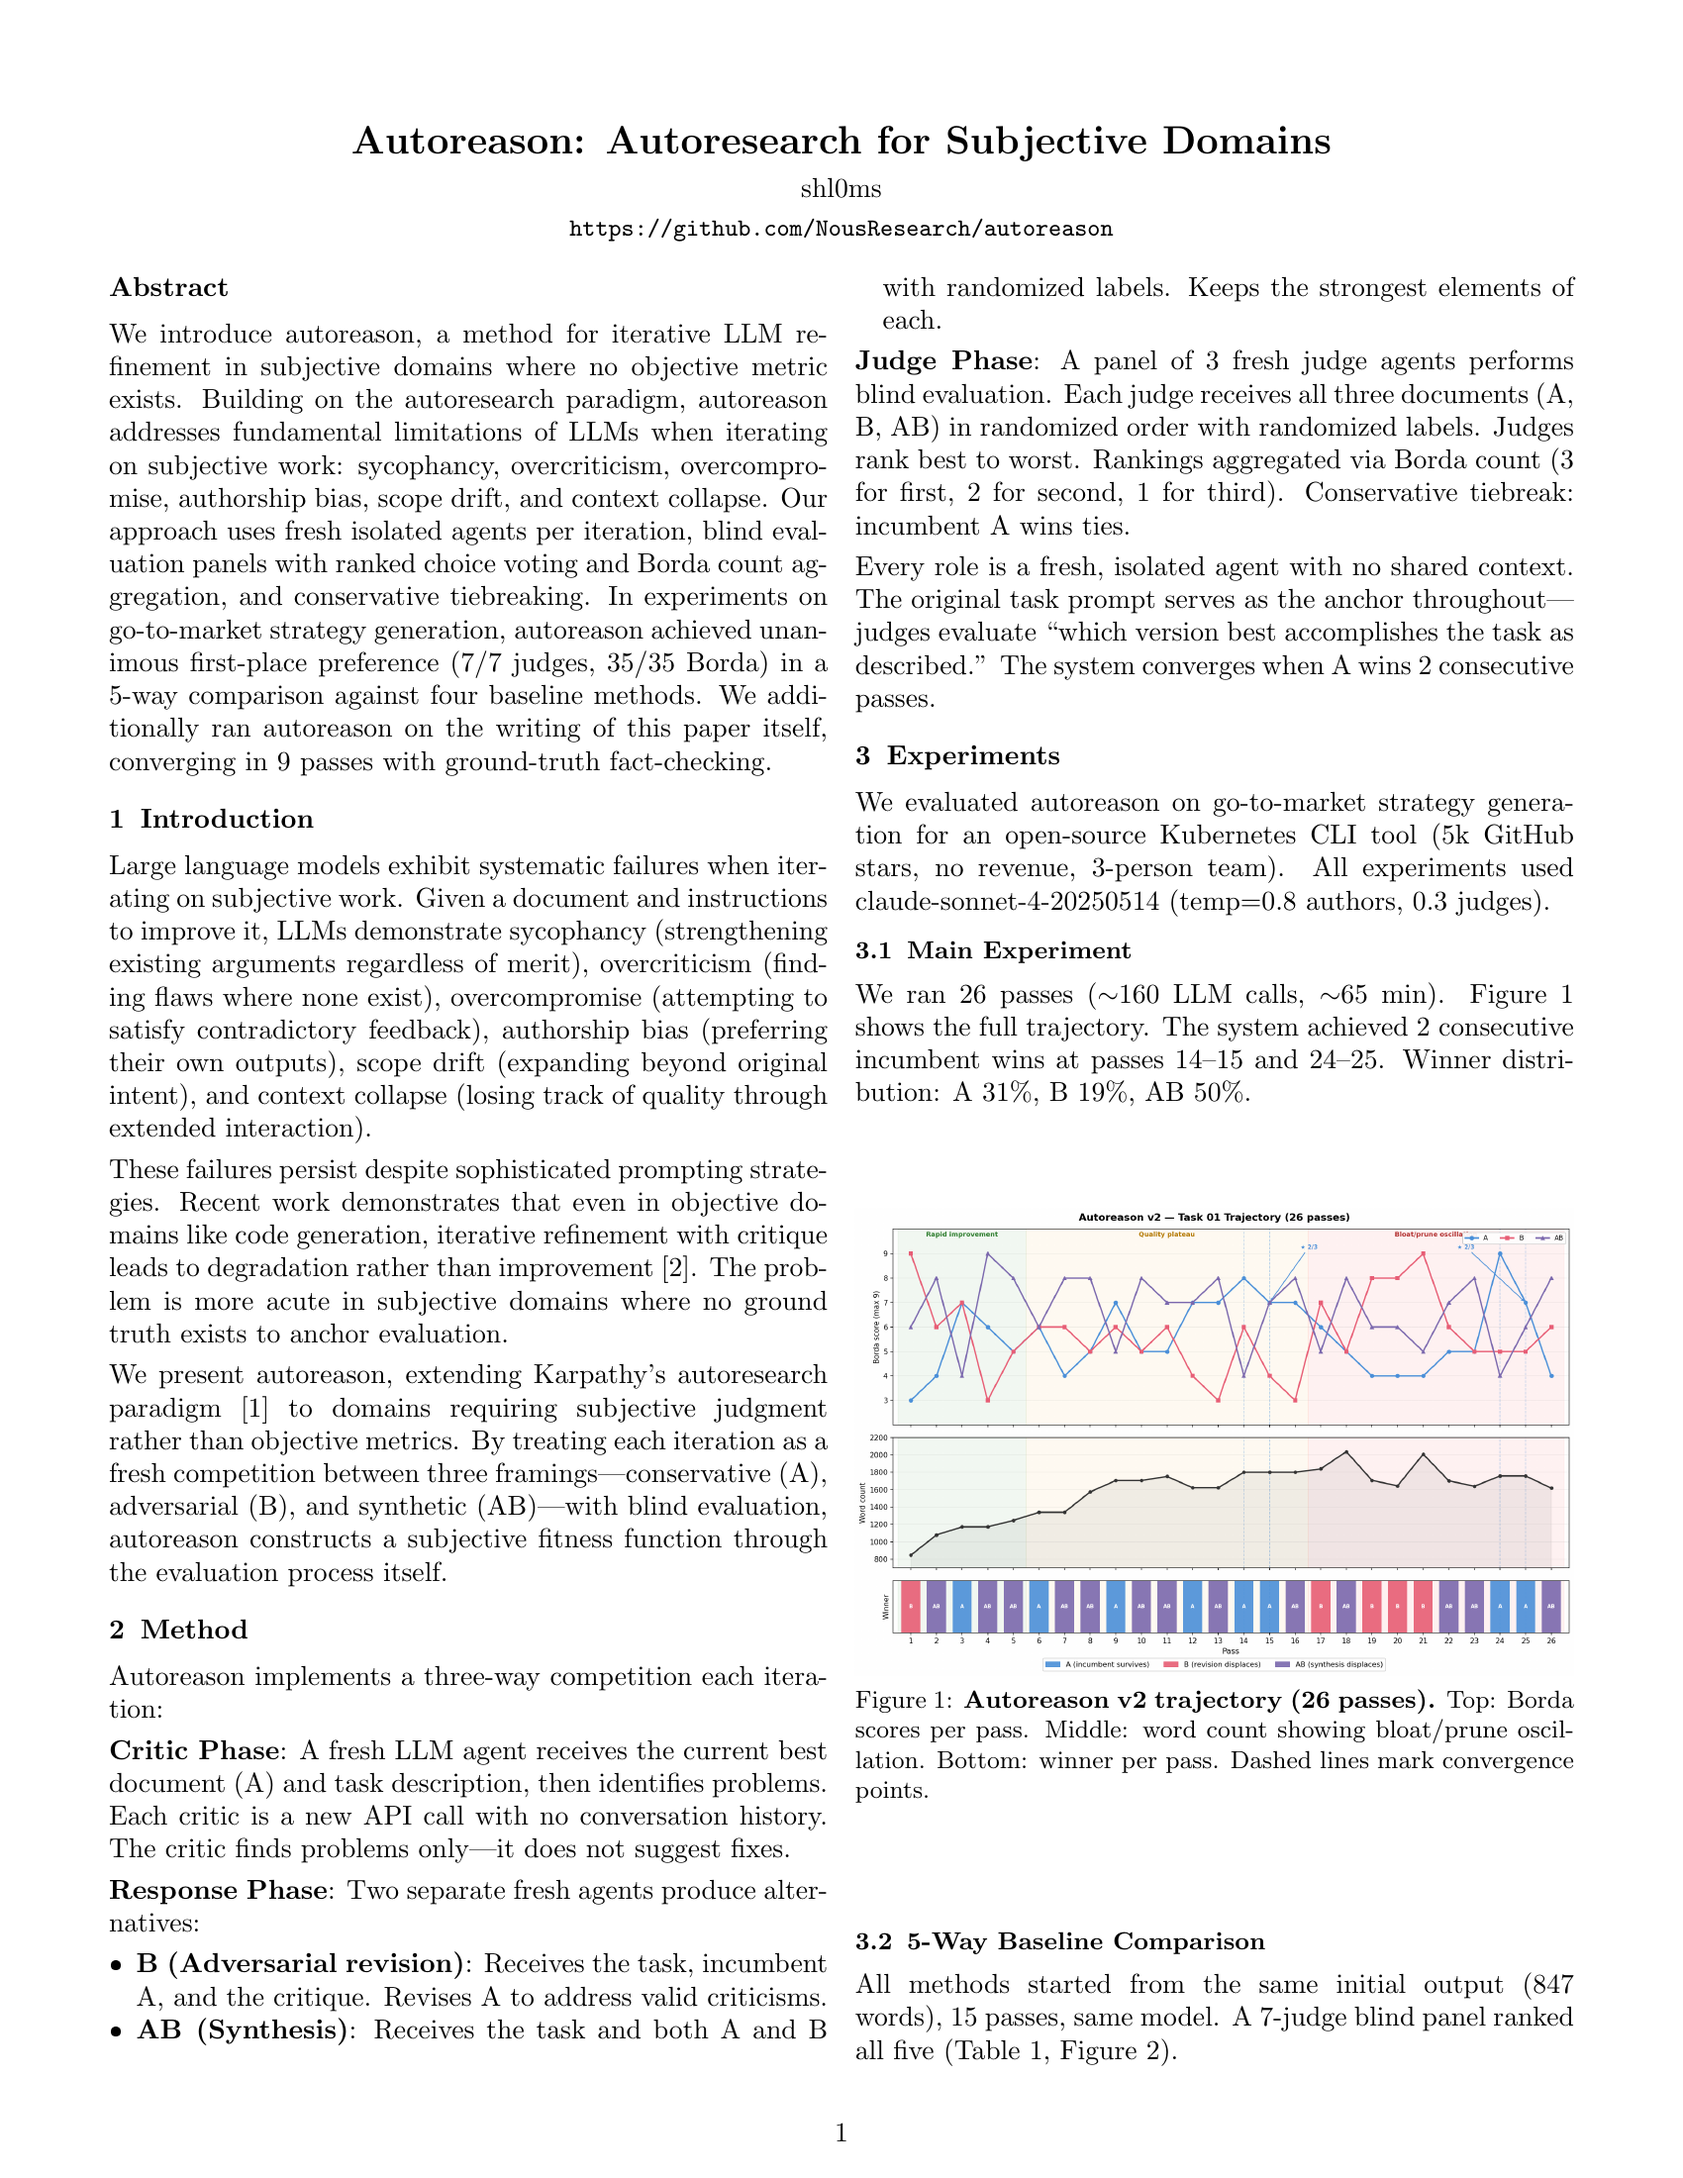
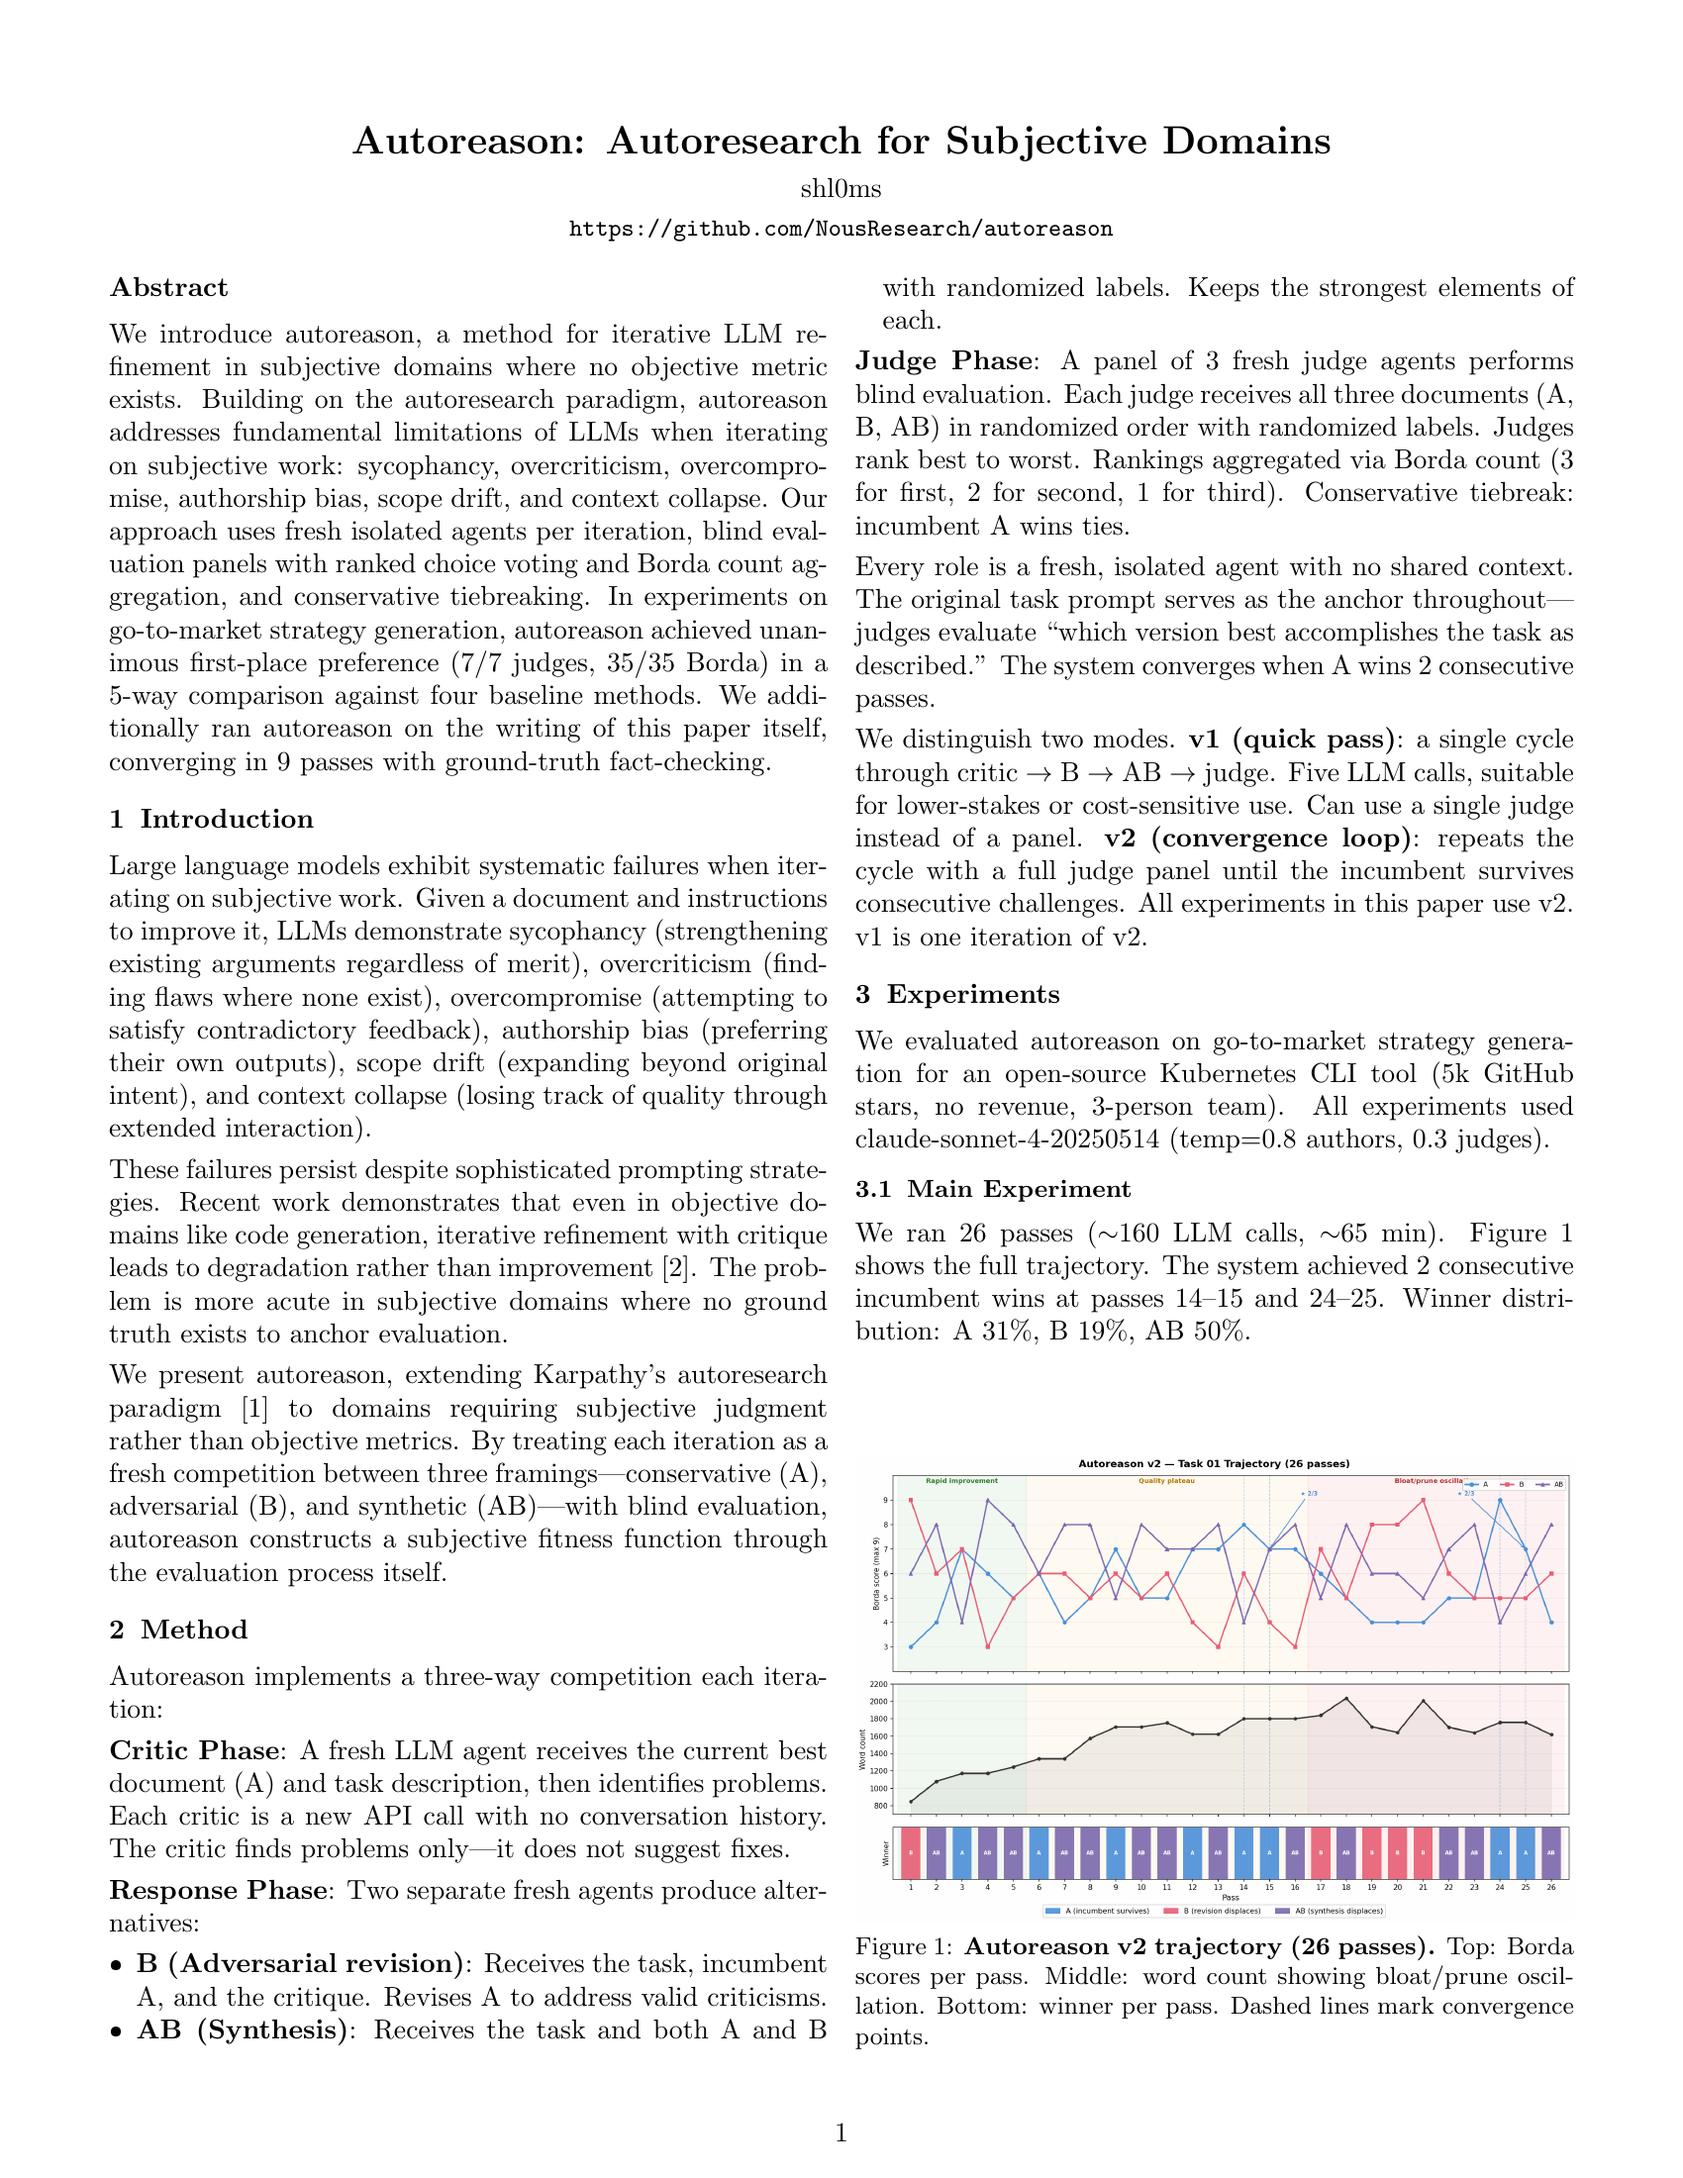
Add v1/v2 distinction to method section

diff --git a/paper/autoreason.tex b/paper/autoreason.tex
@@ -61,6 +61,8 @@ Autoreason implements a three-way competition each iteration:
 
 Every role is a fresh, isolated agent with no shared context. The original task prompt serves as the anchor throughout---judges evaluate ``which version best accomplishes the task as described.'' The system converges when A wins 2 consecutive passes.
 
+We distinguish two modes. \textbf{v1 (quick pass)}: a single cycle through critic $\to$ B $\to$ AB $\to$ judge. Five LLM calls, suitable for lower-stakes or cost-sensitive use. Can use a single judge instead of a panel. \textbf{v2 (convergence loop)}: repeats the cycle with a full judge panel until the incumbent survives consecutive challenges. All experiments in this paper use v2. v1 is one iteration of v2.
+
 \section{Experiments}
 
 We evaluated autoreason on go-to-market strategy generation for an open-source Kubernetes CLI tool (5k GitHub stars, no revenue, 3-person team). All experiments used claude-sonnet-4-20250514 (temp=0.8 authors, 0.3 judges).
